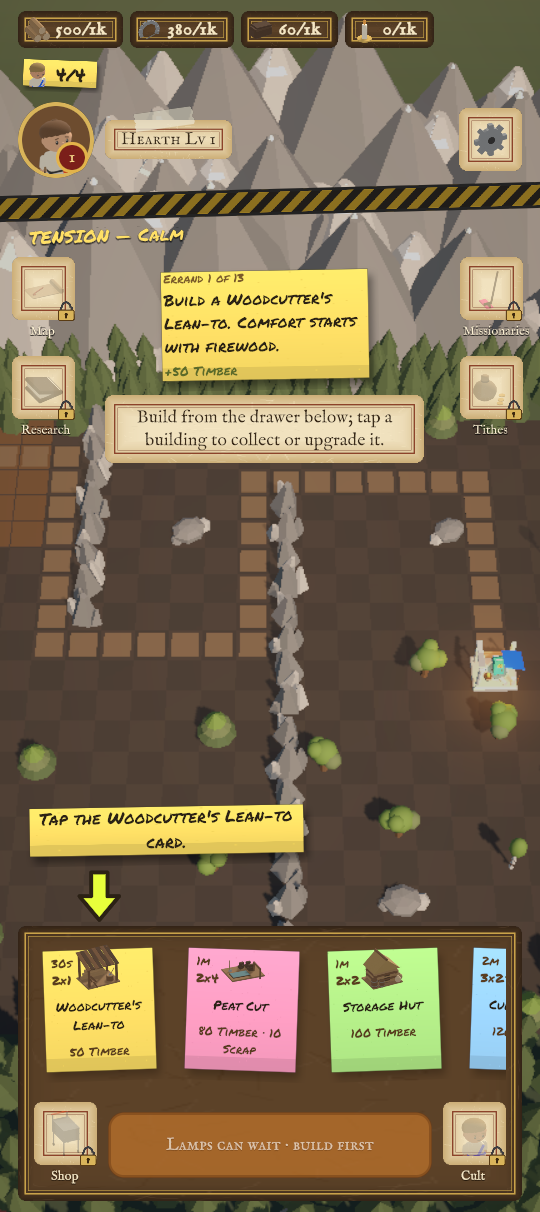
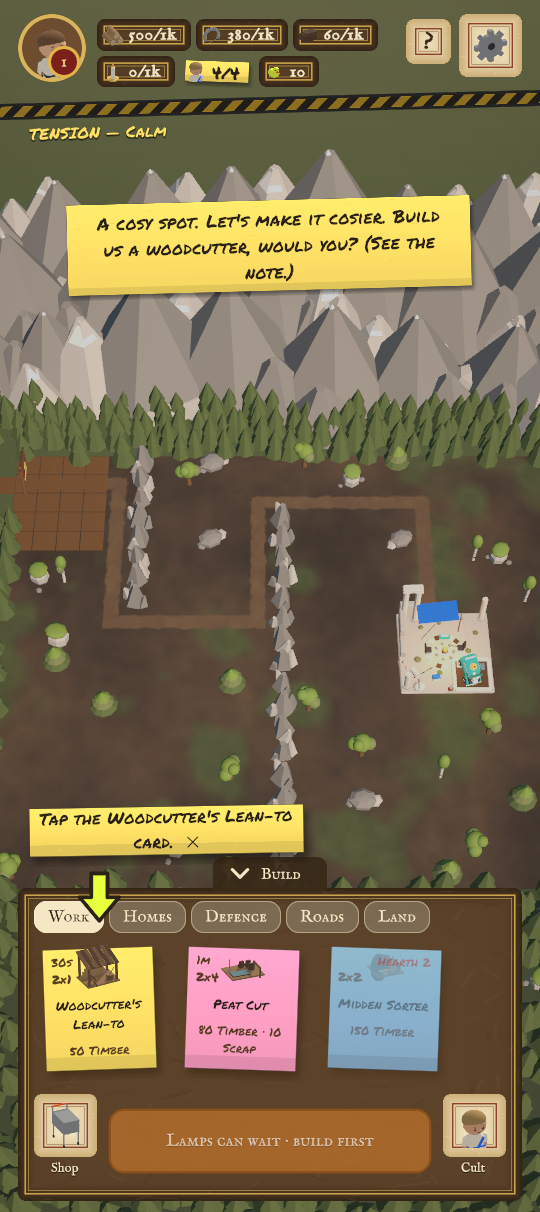
One thing at a time: one voice, no padlocks, the Night for the fight
After an outside playtest ("no idea how to play", "the screen is
crowded"): while the coach points at something, the errand note waits;
shortcuts appear when they open (with a toast saying what they are), not
as padlocks from the start; the How to play wall no longer opens by
itself (it stays behind ?); no opening toast; the stores fold away during
a Night; the Dawn card drops the hashes (logged instead) and keeps the
stamp. Previews regenerated.

diff --git a/client/CultOfComfort.Unity/Assets/Scripts/GameController.cs b/client/CultOfComfort.Unity/Assets/Scripts/GameController.cs
@@ -132,8 +132,7 @@ namespace CultOfComfort.Client
             // Dev tools: on a device that runs the rules itself (editor, tests), or one holding the owner's dev key.
             _devTools = _village is RemoteBaseGateway remoteVillage ? remoteVillage.Developer : Debug.isDebugBuild;
             _hud.SetDevTools(_devTools);
-            LoadVillage();
-            Announce("Build from the drawer below; tap a building to upgrade it. What they make stacks itself.");
+            LoadVillage(); // no opening toast: the coach and the errand note say what to do (spec 2026-10-16 one thing at a time)
             PlayIntroOnFirstLaunch();
         }
 
@@ -637,16 +636,38 @@ namespace CultOfComfort.Client
             }
         }
 
+        /// <summary>
+        /// Shortcuts appear only when they open (spec 2026-10-16 one thing at a time): the first time one does while
+        /// you play (not on load), a toast says what it is.
+        /// </summary>
+        private void OpenFeature(string id, bool open)
+        {
+            if (_hud.SetFeatureOpen(id, open) && open && _featuresSeeded)
+            {
+                Announce(id switch
+                {
+                    "map" => "New: the Map. See the lands around you and who rules them.",
+                    "missionaries" => "New: Missionaries. Send a preacher to win a village over.",
+                    "tithes" => "New: Tithes. Keep the lord sweet before he sends men.",
+                    "research" => "New: Research. Study better ways of doing things.",
+                    _ => $"New: {LockedFeatures.Get(id).Label}.",
+                });
+            }
+        }
+
+        private bool _featuresSeeded;
+
         /// <summary>Keeps the map and sheets current while open; opens the shortcuts as the village earns them.</summary>
         private void RefreshMap()
         {
             var open = _snapshot?.Domain?.Unlocked == true;
             foreach (var id in new[] { "map", "missionaries", "tithes" })
             {
-                _hud.SetFeatureOpen(id, open);
+                OpenFeature(id, open);
             }
 
-            _hud.SetFeatureOpen("research", _snapshot != null && _snapshot.HearthLevel >= 2);
+            OpenFeature("research", _snapshot != null && _snapshot.HearthLevel >= 2);
+            _featuresSeeded |= _snapshot != null;
             WatchDemand();
             _hud.SetFeatureBadge("missionaries", _snapshot?.Domain?.Tales?.Count > 0);
             if (_house != null && _house.IsOpen && _snapshot != null)
@@ -1430,7 +1451,7 @@ namespace CultOfComfort.Client
                 if (_snapshot.Errand?.Index == 0 && _snapshot.Buildings.Count == 1)
                 {
                     // A brand-new village: the Prophet says one line, then the errand note takes over.
-                    _hud.Announce("A cosy spot. Let's make it cosier. Build us a woodcutter, would you? (See the note.)", Time.time, 6f, prophet: true);
+                    _hud.Announce("A cosy spot. Let's make it cosier. Build us a woodcutter, would you?", Time.time, 6f, prophet: true);
                 }
 
                 RefreshVillage();
@@ -1979,7 +2000,6 @@ namespace CultOfComfort.Client
         /// <summary>The tutorial's step this frame (Dusk only, no card or report in the way) and, for a building, where it is on screen.</summary>
         private const string DrawerCollapsedKey = "hud.drawer.collapsed";
         private const string MapHelpSeenKey = "map.help.seen";
-        private const string HowToSeenKey = "howto.seen";
         /// <summary>The errand note is open (2026-10-16: it starts as one line; "the errands take lots of space").</summary>
         private const string ErrandOpenKey = "hud.errand.open";
         private const string CoachOffKey = "hud.coach.off";
@@ -2320,12 +2340,6 @@ namespace CultOfComfort.Client
                 _hud.SetCloudStatus(remote.Online
                     ? remote.PendingCount == 0 ? "Cloud save: synced ✓" : $"Cloud save: sending {remote.PendingCount}…"
                     : remote.PendingCount == 0 ? "Cloud save: offline" : $"Cloud save: offline · {remote.PendingCount} waiting");
-            }
-
-            if (_phase == GamePhase.Dusk && _snapshot != null && _intro == null && !_showingReport && !Pref(HowToSeenKey))
-            {
-                SetPref(HowToSeenKey, true);
-                _hud.ShowHowTo(true); // once, the first time the village is up: what the game is and how it's played
             }
 
             var coach = CoachNow(out var coachPoint);

diff --git a/client/CultOfComfort.Unity/Assets/Scripts/Hud/HudView.cs b/client/CultOfComfort.Unity/Assets/Scripts/Hud/HudView.cs
@@ -99,6 +99,7 @@ namespace CultOfComfort.Client
 
         private readonly VisualElement _root;
         private readonly VisualElement _top;
+        private readonly VisualElement _pillRow;
         private readonly Dictionary<string, (VisualElement Pill, Label Value)> _pills = new Dictionary<string, (VisualElement, Label)>();
         private readonly Label _hearthBadge;
         private readonly Label _hearthLine;
@@ -216,6 +217,7 @@ namespace CultOfComfort.Client
             var frame = Container("frame");
             frame.name = "frame";
             var pills = Container("pills");
+            _pillRow = pills;
             foreach (var (key, icon) in new[] { ("timber", "timber"), ("scrap", "scrap"), ("peat", "peat"), ("devotion", "devotion"), ("pennies", "penny"), ("people", "cult"), ("comfort", "comfort") })
             {
                 var pill = Surface(key == "pennies" || key == "people" ? "pill-note" : "pill");
@@ -571,6 +573,7 @@ namespace CultOfComfort.Client
                 Show(_codeEntry, false);
             }
             Show(_waveStrip, phase == GamePhase.Night);
+            Show(_pillRow, phase != GamePhase.Night); // the stores don't matter mid-fight; the board gets the room (spec 2026-10-16 one thing at a time)
             Show(_sideLeft, phase == GamePhase.Dusk);
             Show(_sideRight, phase == GamePhase.Dusk);
             Show(_duskBar, phase == GamePhase.Dusk);
@@ -965,6 +968,10 @@ namespace CultOfComfort.Client
             var hasLine = !sheetOpen && !string.IsNullOrEmpty(_coach.Line) && (target != null || !_coach.HasArrow);
             Show(_coachArrow, target != null);
             Show(_coachLine, hasLine);
+            // One voice: while the coach points somewhere else, the errand note (saying the same thing) waits.
+            var hush = hasLine && _coach.Target != CoachTarget.ErrandNote;
+            _errand.EnableInClassList("hushed", hush);
+            _daily.EnableInClassList("hushed", hush);
             if (!hasLine)
             {
                 return;
@@ -1043,13 +1050,15 @@ namespace CultOfComfort.Client
             }
         }
 
-        /// <summary>Opens (or locks) a frame shortcut: open ones raise <see cref="FeatureClicked"/>, locked ones show their note.</summary>
-        public void SetFeatureOpen(string id, bool open)
+        /// <summary>Opens (or locks and hides) a frame shortcut. True when that changed it.</summary>
+        public bool SetFeatureOpen(string id, bool open)
         {
             if ((_openFeatures.Contains(id)) == open || !_featureButtons.TryGetValue(id, out var button))
             {
-                return;
+                return false;
             }
+
+            Show(button.parent, open);
 
             if (open)
             {
@@ -1066,6 +1075,8 @@ namespace CultOfComfort.Client
             {
                 padlock.style.display = open ? DisplayStyle.None : DisplayStyle.Flex;
             }
+
+            return true;
         }
 
         /// <summary>A red dot on a frame button: something wants you there (the lord's demand on Tithes).</summary>
@@ -1191,8 +1202,9 @@ namespace CultOfComfort.Client
             _cardFlavour.text = won
                 ? "The attackers left damp, confused and noticeably cleaner."
                 : $"{Ruler.Cap(Ruler.Short)}'s men warmed their hands on the embers and left. Tomorrow: repairs, and a strongly worded diary entry.";
-            _cardStats.text = $"{result.EnemiesDefeated} defeated · {result.EnemiesLeaked} reached the Hearth · {commands} commands logged\n" +
-                              $"Client hash {result.StateHashHex} · server replay {serverReplay.StateHashHex}";
+            // The hashes are for us, not the player: the stamp says it all (spec 2026-10-16 one thing at a time).
+            _cardStats.text = $"{result.EnemiesDefeated} defeated · {result.EnemiesLeaked} reached the Hearth";
+            Debug.Log($"[CoC] Dawn: {commands} commands · client hash {result.StateHashHex} · server replay {serverReplay.StateHashHex}");
             _stamp.EnableInClassList("verified", match);
             _stamp.EnableInClassList("mismatch", !match);
         }
@@ -1545,6 +1557,7 @@ namespace CultOfComfort.Client
             _featureButtons[id] = button;
             holder.Add(button);
             holder.Add(Text(feature.Label, "shortcut-label"));
+            Show(holder, false); // nothing locked on show: a shortcut appears when it opens (spec 2026-10-16 one thing at a time)
             return holder;
         }
 

diff --git a/client/CultOfComfort.Unity/Assets/Tests/PlayMode/HudFrameTests.cs b/client/CultOfComfort.Unity/Assets/Tests/PlayMode/HudFrameTests.cs
@@ -327,7 +327,7 @@ namespace CultOfComfort.Client.Tests
 
             // Assert
             foreach (var name in new[] { "frame", "pill-timber", "pill-scrap", "pill-peat", "pill-devotion", "portrait",
-                         "settings-button", "tension-strip", "side-left", "side-right", "locked-map", "dusk-bar", "start-night" })
+                         "settings-button", "tension-strip", "dusk-bar", "start-night" })
             {
                 Assert.IsTrue(Visible(root.Q(name)), name);
             }
@@ -357,39 +357,17 @@ namespace CultOfComfort.Client.Tests
         }
 
         [UnityTest]
-        public IEnumerator LockedButton_Tapped_ShowsItsNote()
+        public IEnumerator Shortcut_BeforeItOpens_IsNotOnShow()
         {
-            // Arrange
+            // Arrange & Act — a fresh village, Hearth 1: nothing beyond building is open yet.
             yield return LoadGame();
             var root = Root();
 
-            // Act
-            Click(root.Q<Button>("locked-research"));
-            yield return null; // Tick un-hides the note
-            yield return null; // UI Toolkit lays it out
-
             // Assert
-            var note = root.Q<Label>("locked-note");
-            Assert.IsTrue(Visible(note));
-            StringAssert.Contains("Hearth 2", note.text);
-        }
-
-        [UnityTest]
-        public IEnumerator LockedButton_SecondTapOnAnother_ReplacesTheNote()
-        {
-            // Arrange
-            yield return LoadGame();
-            var root = Root();
-            Click(root.Q<Button>("locked-research"));
-            yield return null;
-
-            // Act
-            Click(root.Q<Button>("locked-tithes"));
-            yield return null;
-
-            // Assert
-            Assert.AreEqual(1, root.Query<Label>("locked-note").ToList().Count);
-            StringAssert.Contains("Hearth 2", root.Q<Label>("locked-note").text);
+            foreach (var name in new[] { "locked-map", "locked-research", "locked-missionaries", "locked-tithes" })
+            {
+                Assert.IsFalse(Visible(root.Q(name)), name + ": no padlocks on show (spec 2026-10-16 one thing at a time)");
+            }
         }
 
         [UnityTest]
@@ -409,6 +387,7 @@ namespace CultOfComfort.Client.Tests
             Assert.IsTrue(Visible(root.Q("wave-strip")));
             Assert.IsFalse(Visible(root.Q("tension-strip")));
             Assert.IsFalse(Visible(root.Q("side-left")));
+            Assert.IsFalse(Visible(root.Q("pill-timber")), "the stores fold away mid-fight");
             StringAssert.StartsWith("Wave", root.Q<Label>("wave-label").text);
             Assert.IsTrue(Visible(root.Q("frame")), "The frame stays at night.");
         }

diff --git a/client/CultOfComfort.Unity/Assets/Tests/PlayMode/VillageTests.cs b/client/CultOfComfort.Unity/Assets/Tests/PlayMode/VillageTests.cs
@@ -70,6 +70,7 @@ namespace CultOfComfort.Client.Tests
             Assert.AreEqual(DisplayStyle.Flex, note.resolvedStyle.display);
             StringAssert.Contains("Woodcutter", note.Q<Label>(className: "errand-text").text);
             Assert.AreEqual(DisplayStyle.None, note.Q<Label>(className: "errand-claim").resolvedStyle.display);
+            Assert.IsTrue(note.ClassListContains("hushed"), "one voice: the coach points at the card, the note waits");
             Assert.IsTrue(root.Q<Button>("start-night").ClassListContains("waiting"), "the lamps wait for the first-Night errand");
             Click(root.Q<Button>("card-Woodcutter"));
             yield return Frames(2);

diff --git a/docs/superpowers/specs/2026-10-16-one-thing-at-a-time-design.md b/docs/superpowers/specs/2026-10-16-one-thing-at-a-time-design.md
@@ -1,0 +1,23 @@
+# One thing at a time
+
+- **Date:** 2026-10-16
+- **Status:** Owner: "feel free to do what you need to fix it. go for it", after an outside playtest. A new player said she had no idea how to play, the screen is crowded, the errand note takes a big part of the screen, the HUD looks messy, and the models and animations look cheap.
+
+## What a new player sees today
+
+The first build step (`art/previews/intro/coach_1_card.png`) gives three instructions at once: the errand note, a toast ("Build from the drawer below…") and the coach's line with its arrow. Around them are four padlocked side buttons, a padlocked Shop and Cult, and a disabled "Lamps can wait" button. Before any of that, a four-section "How to play" wall opens over the village.
+
+During a Night, the stores (useless in a fight), the wave strip and the skill bar cover about half the screen. The fight happens in a dark strip in between, with raiders about 15 px tall.
+
+## Rules
+
+1. **One voice.** While the coach is pointing at something, it is the only instruction on screen: the errand note and teaching toasts wait.
+2. **Nothing locked on show.** A shortcut appears when it opens, with a "New" toast and the red dot, not as a padlock months early. A padlocked shortcut you can't use is clutter.
+3. **No reading wall.** The coach teaches by pointing; "How to play" stays behind the ? button and no longer opens by itself.
+4. **The Night is for the fight.** The stores fold away during a Night; the wave strip and meters stay.
+5. **No developer talk for players.** The Dawn card keeps the stars, the line and the VERIFIED stamp; the hashes and command count move to the settings' debug section.
+
+## Later (not in this pass)
+
+- The Night camera nearer and brighter units (the "cheap models" complaint is mostly scale and darkness).
+- One slimmer resource bar.
